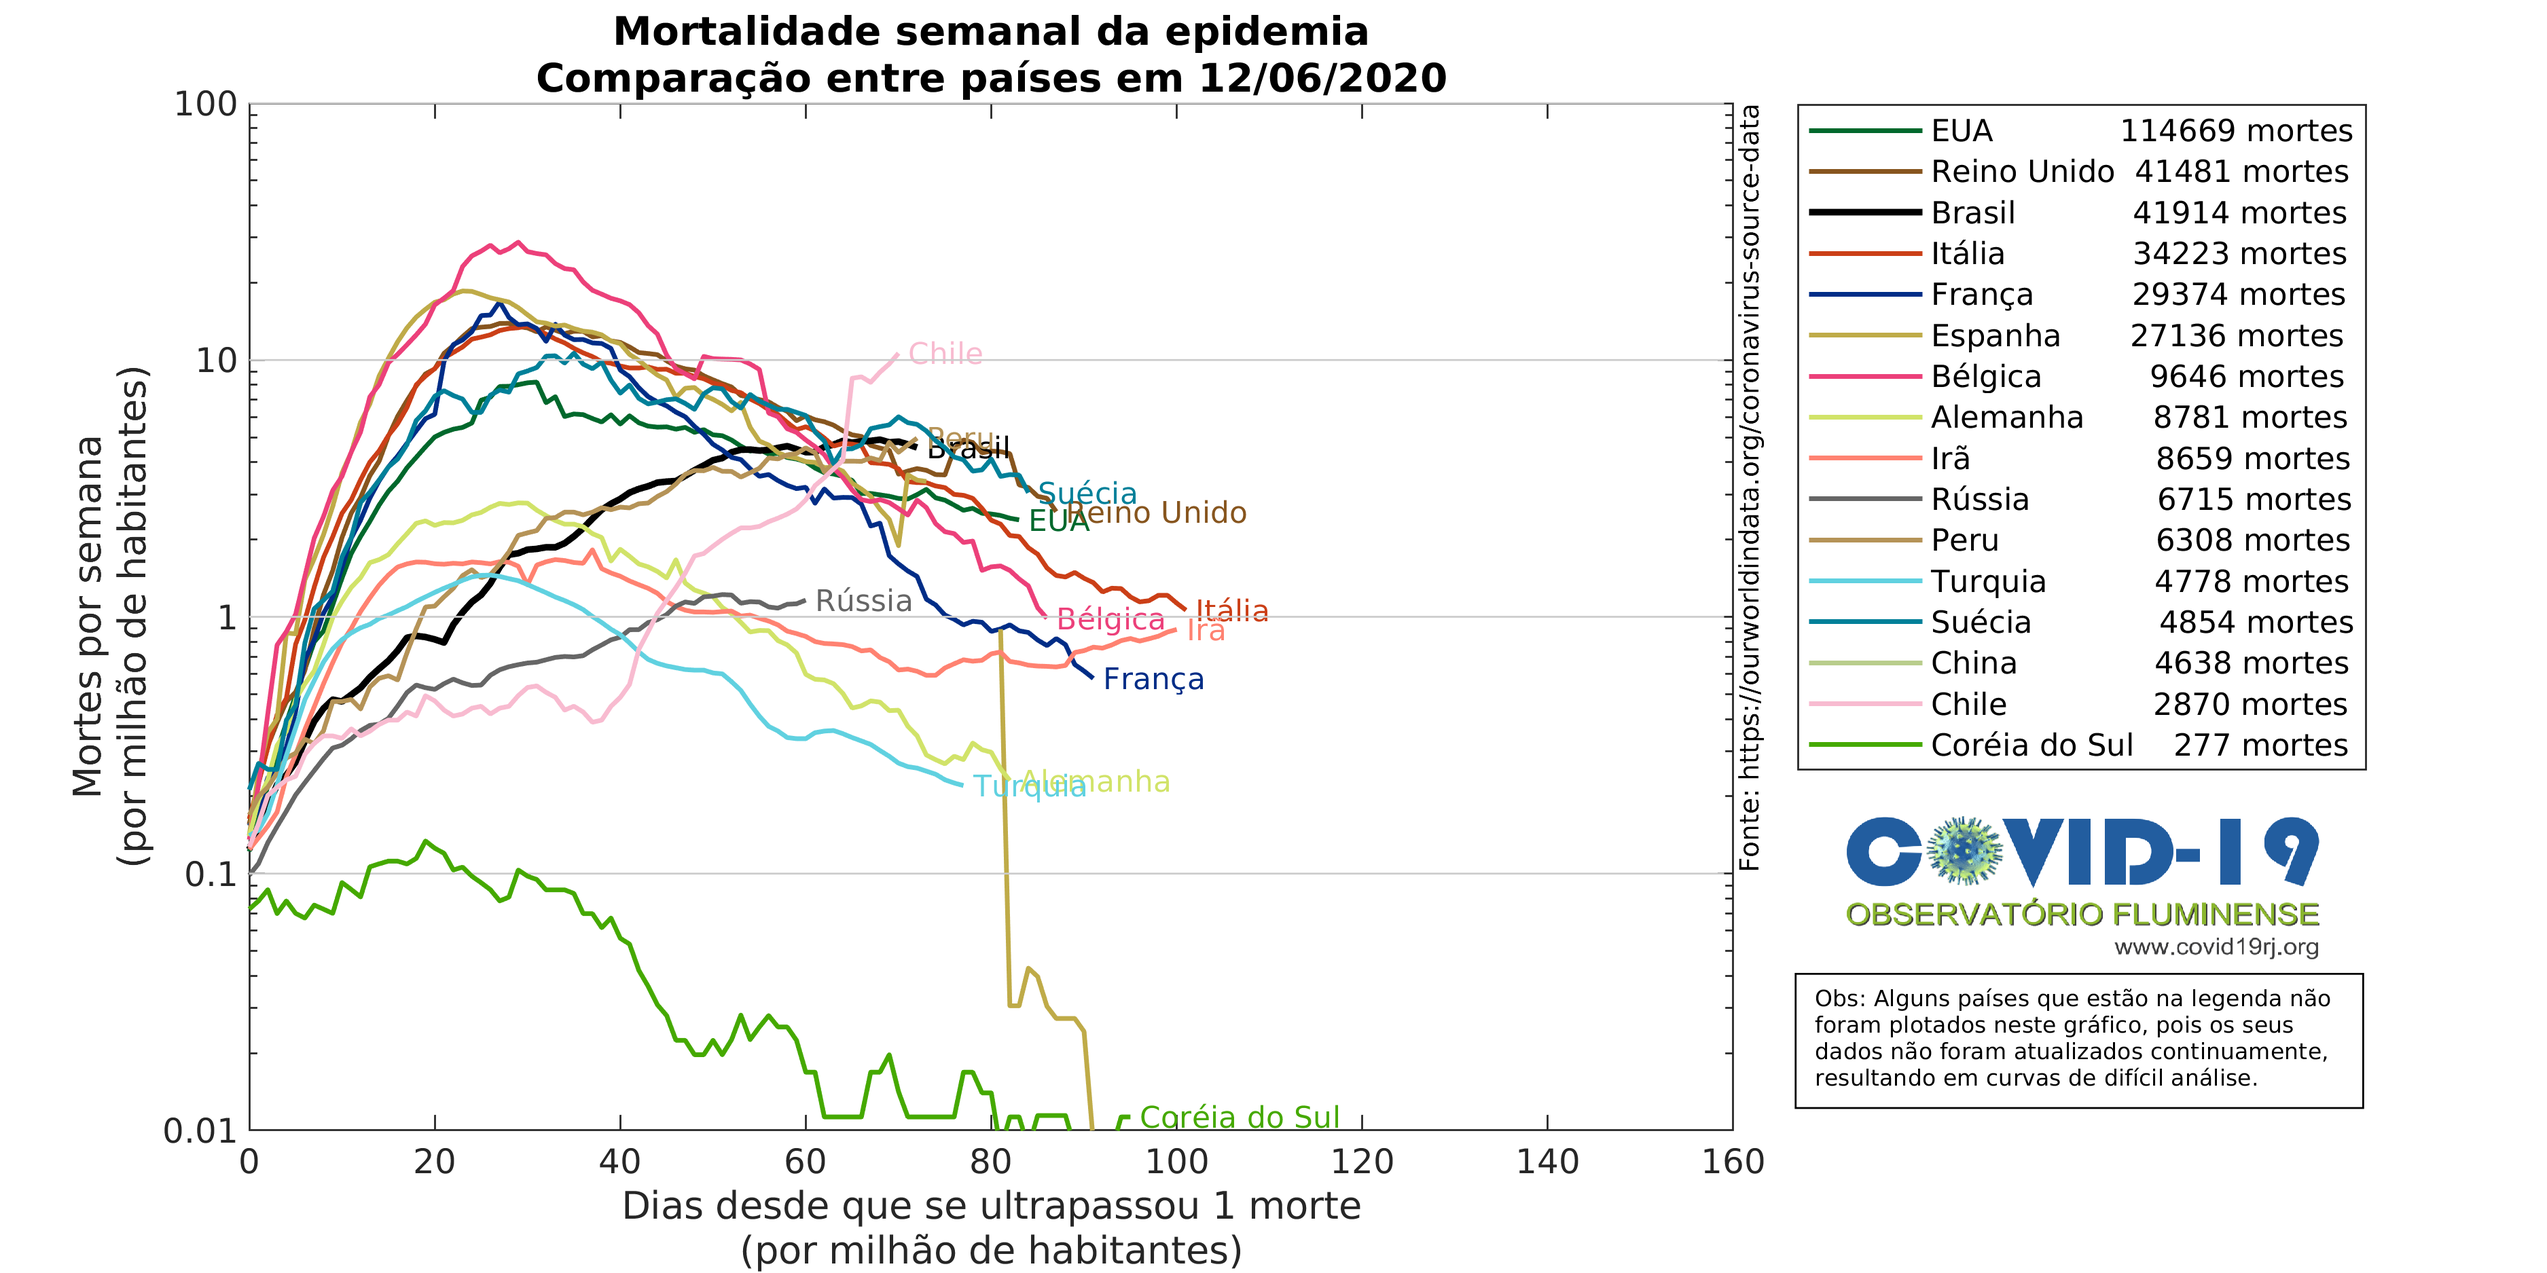
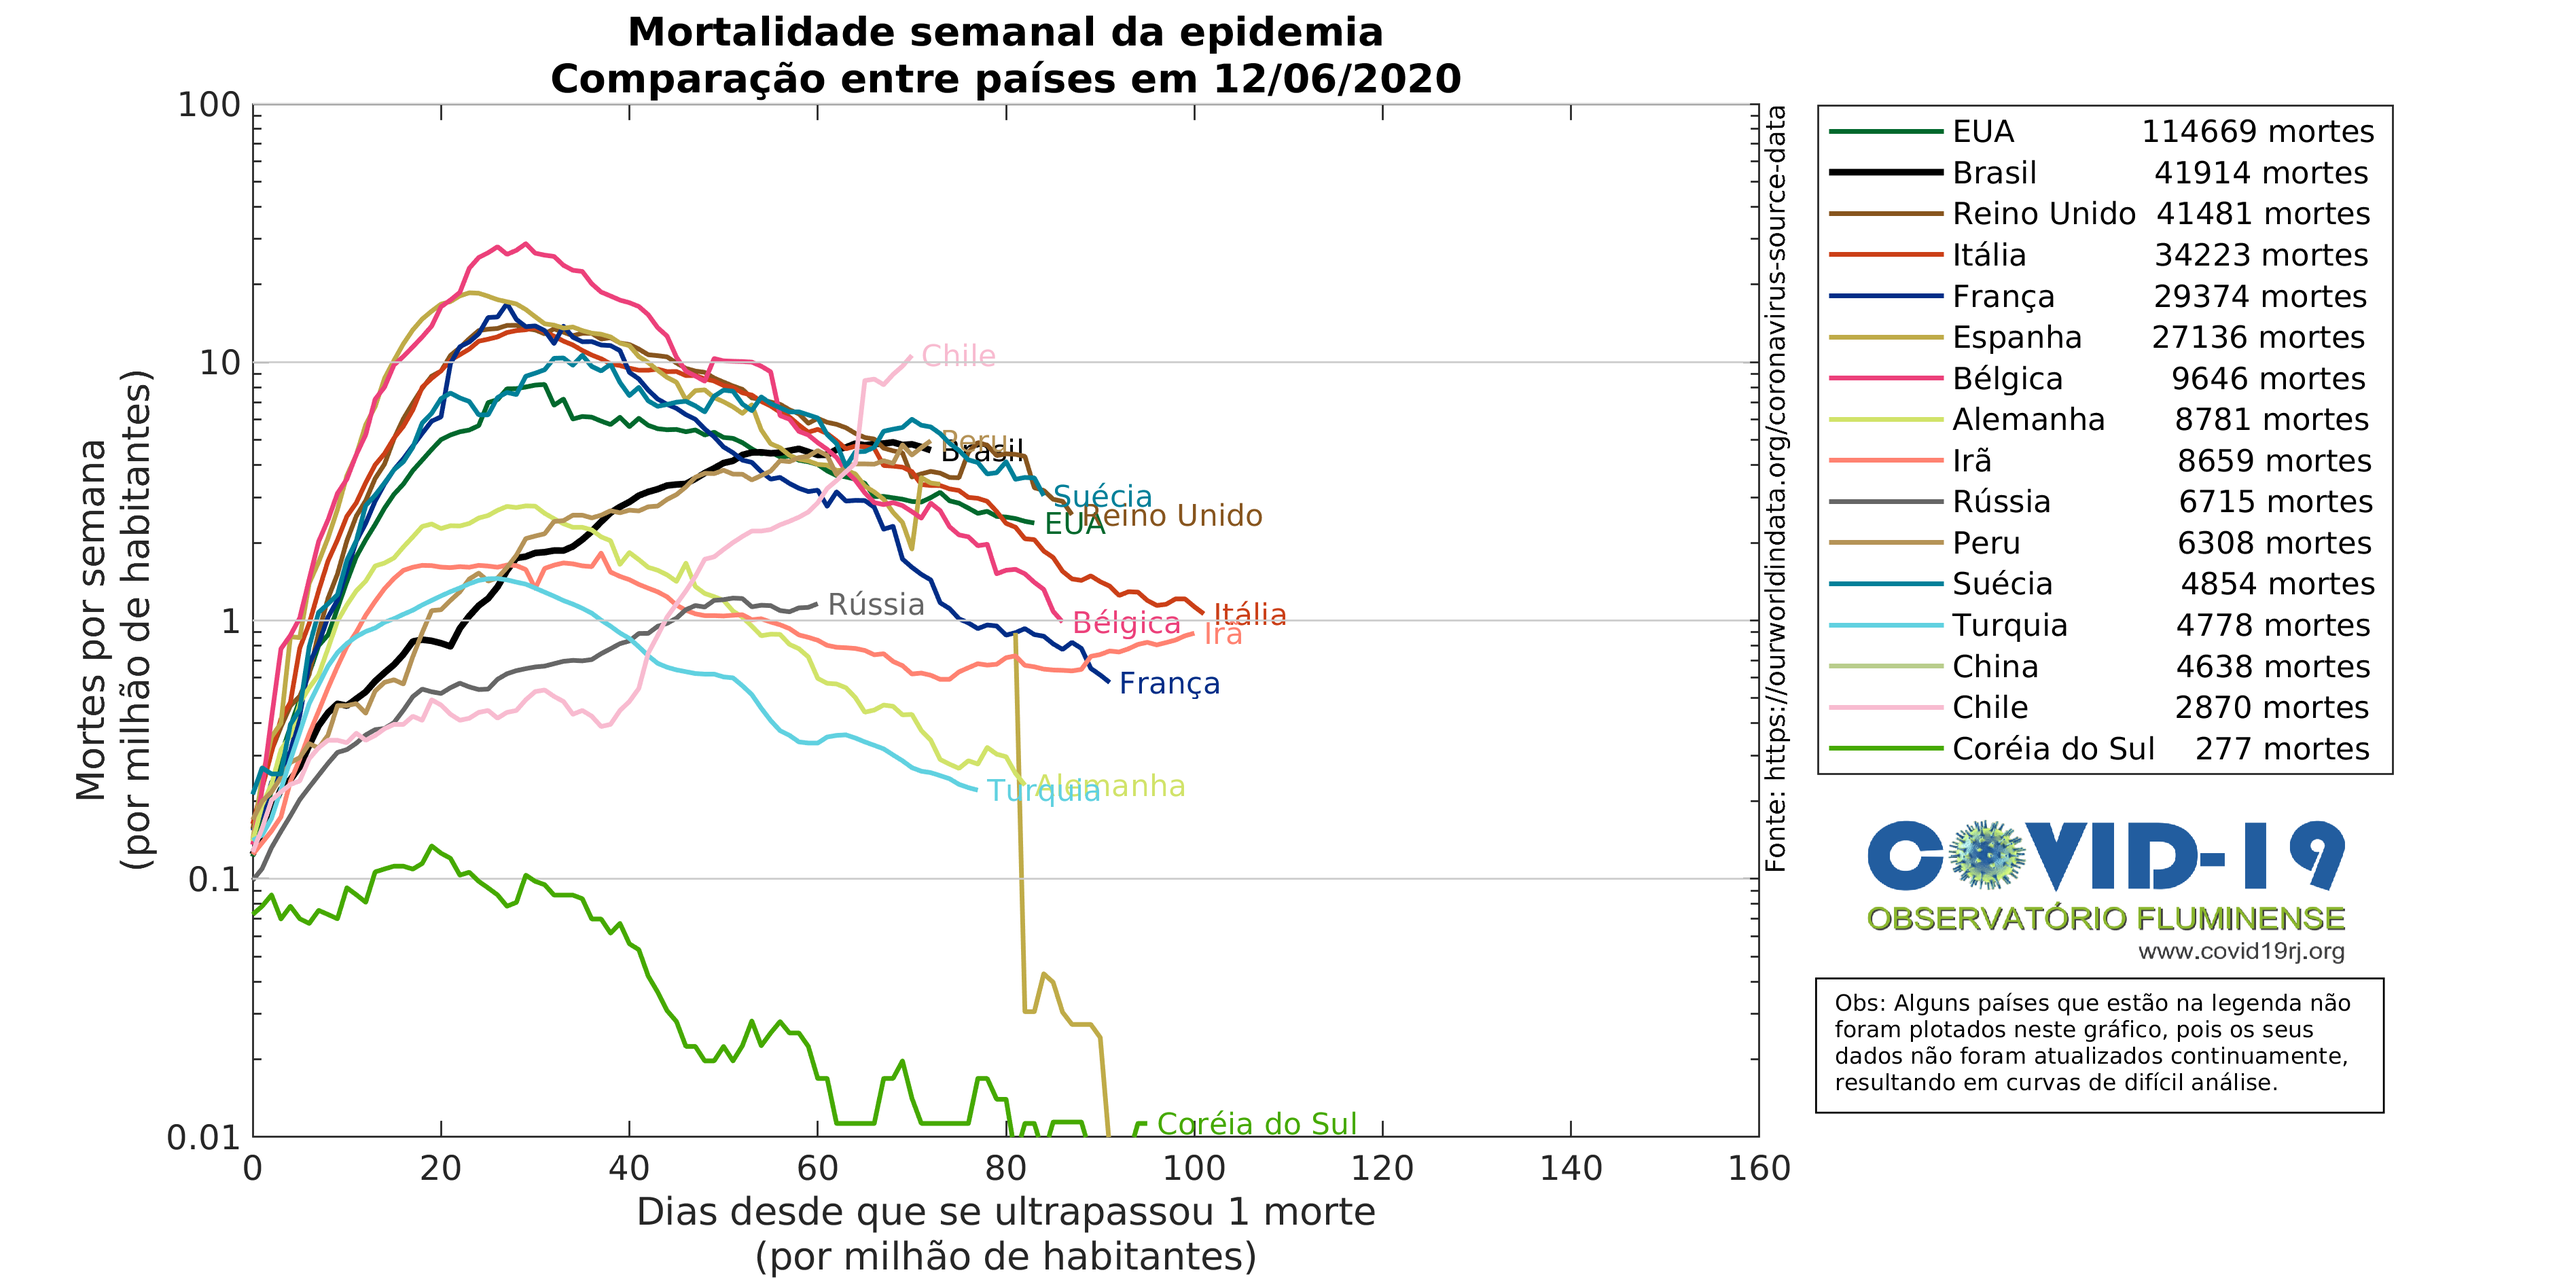
Update

diff --git a/Monitoramento/covid19rj_M_ST_WD_VA.m b/Monitoramento/covid19rj_M_ST_WD_VA.m
@@ -66,21 +66,21 @@ linew = 1.25;
 
 if (plot_type == 1)
 %ordem por países que tem mais morte
-if (init == 3) country = 'Brazil'; color = [0,0,0]/255; linew = 1.75; end
+if (init == 2) country = 'Brazil'; color = [0,0,0]/255; linew = 1.75; end
 if (init == 16) country = 'South Korea'; color = [69,169,0]/255; end
-if (init == 12) country = 'Turkey'; color = [96,209,224]/255; end  
+if (init == 13) country = 'Turkey'; color = [96,209,224]/255; end  
 if (init == 11) country = 'Peru'; color = [181,147,87]/255; end
 if (init == 9) country = 'Iran'; color = [255,130,113]/255; end
 if (init == 8) country = 'Germany'; color = [209,227,105]/255; end
 if (init == 15) country = 'Chile'; color = [248,187,208]/255; end
 if (init == 1) country = 'United States'; color = [0,104,44]/255; end
 if (init == 5) country = 'France'; color = [0,45,135]/255; end
-if (init == 2) country = 'United Kingdom'; color = [135,85,30]/255; end
+if (init == 3) country = 'United Kingdom'; color = [135,85,30]/255; end
 if (init == 4) country = 'Italy'; color = [203,63,23]/255; end
 if (init == 6) country = 'Spain'; color = [191,171,72]/255; end
 if (init == 7) country = 'Belgium'; color = [236,64,122]/255; end
 if (init == 10) country = 'Russia'; color = [0.4,0.4,0.4]; end
-if (init == 13) country = 'Sweden'; color = [0,0.5,0.6]; end
+if (init == 12) country = 'Sweden'; color = [0,0.5,0.6]; end
 if (init == 14) country = 'China'; color = [185,205,140]/255; end
 
 if strcmp(country, 'Brazil')
@@ -120,9 +120,9 @@ if (init == 10) country = 'Turkey'; color = [96,209,224]/255; end
 if (init == 7) country = 'Peru'; color = [181,147,87]/255; end
 if (init == 9) country = 'Iran'; color = [255,130,113]/255; end
 if (init == 8) country = 'Germany'; color = [209,227,105]/255; end
-if (init == 12) country = 'Chile'; color = [248,187,208]/255; end
+if (init == 11) country = 'Chile'; color = [248,187,208]/255; end
 if (init == 1) country = 'United States'; color = [0,104,44]/255; end
-if (init == 11) country = 'France'; color = [0,45,135]/255; end
+if (init == 12) country = 'France'; color = [0,45,135]/255; end
 if (init == 4) country = 'United Kingdom'; color = [135,85,30]/255; end
 if (init == 6) country = 'Italy'; color = [203,63,23]/255; end
 if (init == 5) country = 'Spain'; color = [191,171,72]/255; end
@@ -275,7 +275,7 @@ hold on;
 
  n = max(max(size(tot_deaths_X)));
  days = 0:1:n-1;
- fig=semilogy(days,tot_deaths_X,'DisplayName',[country,'  ',num2str(max(tot_deaths)),' mortes'],"color",color,'LineWidth', linew);
+ fig=semilogy(days,tot_deaths_X,'DisplayName',[country,'  ',num2str(tot_deaths(max(size(tot_deaths)),1)),' mortes'],"color",color,'LineWidth', linew);
  hold on;
  text (n-1, tot_deaths_X(n,1), [' ',country],'FontSize',fonte_location,"color",color,"Clipping",'on');
 
@@ -312,7 +312,7 @@ hold on;
 
  n = max(max(size(tot_deathsw0)));
  if strcmp(country, 'China            ') new_deaths7w0 = zeros(n,1); end
- fig=loglog(tot_deathsw0,new_deaths7w0,'DisplayName',[country,'  ',num2str(max(tot_deaths)),' mortes'],"color",color,'LineWidth', linew);
+ fig=loglog(tot_deathsw0,new_deaths7w0,'DisplayName',[country,'  ',num2str(tot_deaths(max(size(tot_deaths)),1)),' mortes'],"color",color,'LineWidth', linew);
  hold on;
  text (tot_deathsw0(n,1), new_deaths7w0(n,1), [' ',country],'FontSize',fonte_location,"color",color,"Clipping",'on');
 
@@ -351,7 +351,7 @@ hold on;
  n = max(max(size(new_deaths7_X)));
  if strcmp(country, 'China            ') new_deaths7_X = zeros(n,1); end
  days = 0:1:n-1;
- fig=semilogy(days,new_deaths7_X/7,'DisplayName',[country,'  ',num2str(max(tot_deaths)),' mortes'],"color",color,'LineWidth', linew);
+ fig=semilogy(days,new_deaths7_X/7,'DisplayName',[country,'  ',num2str(tot_deaths(max(size(tot_deaths)),1)),' mortes'],"color",color,'LineWidth', linew);
  hold on;
  text (n-1, new_deaths7_X(n,1)/7, [' ',country],'FontSize',fonte_location,"color",color,"Clipping",'on');
 
@@ -390,7 +390,7 @@ hold on;
 
  n = max(max(size(tot_cases_X)));
  days = 0:1:n-1;
- fig=semilogy(days,tot_cases_X,'DisplayName',[country,'  ',num2str(max(tot_cases)),' casos'],"color",color,'LineWidth', linew);
+ fig=semilogy(days,tot_cases_X,'DisplayName',[country,'  ',num2str(tot_cases(max(size(tot_cases)),1)),' casos'],"color",color,'LineWidth', linew);
  hold on;
  text (n-1, tot_cases_X(n,1), [' ',country],'FontSize',fonte_location,"color",color,"Clipping",'on');
 
@@ -423,7 +423,7 @@ hold on;
 
  n = max(max(size(tot_casesw0)));
 %if strcmp(country, 'China              ') new_cases7w0 = zeros(n,1); end
-fig=loglog(tot_casesw0,new_cases7w0,'DisplayName',[country,'  ',num2str(max(tot_cases)),' casos'],"color",color,'LineWidth', linew);
+fig=loglog(tot_casesw0,new_cases7w0,'DisplayName',[country,'  ',num2str(tot_cases(max(size(tot_cases)),1)),' casos'],"color",color,'LineWidth', linew);
  hold on;
  text (tot_casesw0(n,1), new_cases7w0(n,1), [' ',country],'FontSize',fonte_location,"color",color,"Clipping",'on');
 
@@ -462,7 +462,7 @@ hold on;
  n = max(max(size(new_cases_X)));
  %if strcmp(country, 'China              ') new_cases7_X = zeros(n,1); end
  days = 0:1:n-1;
- fig=semilogy(days,new_cases7_X/7,'DisplayName',[country,'  ',num2str(max(tot_cases)),' casos'],"color",color,'LineWidth', linew);
+ fig=semilogy(days,new_cases7_X/7,'DisplayName',[country,'  ',num2str(tot_cases(max(size(tot_cases)),1)),' casos'],"color",color,'LineWidth', linew);
  hold on;
  text (n-1, new_cases7_X(n,1)/7, [' ',country],'FontSize',fonte_location,"color",color,"Clipping",'on');
 

diff --git a/Monitoramento/covid19rj_M_ST_WD_PM.m b/Monitoramento/covid19rj_M_ST_WD_PM.m
@@ -70,21 +70,21 @@ linew = 1.25;
 
 if (plot_type == 1)
 %ordem por países que tem mais morte
-if (init == 3) country = 'Brazil'; color = [0,0,0]/255; linew = 1.75; end
+if (init == 2) country = 'Brazil'; color = [0,0,0]/255; linew = 1.75; end
 if (init == 16) country = 'South Korea'; color = [69,169,0]/255; end
-if (init == 12) country = 'Turkey'; color = [96,209,224]/255; end  
+if (init == 13) country = 'Turkey'; color = [96,209,224]/255; end  
 if (init == 11) country = 'Peru'; color = [181,147,87]/255; end
 if (init == 9) country = 'Iran'; color = [255,130,113]/255; end
 if (init == 8) country = 'Germany'; color = [209,227,105]/255; end
 if (init == 15) country = 'Chile'; color = [248,187,208]/255; end
 if (init == 1) country = 'United States'; color = [0,104,44]/255; end
 if (init == 5) country = 'France'; color = [0,45,135]/255; end
-if (init == 2) country = 'United Kingdom'; color = [135,85,30]/255; end
+if (init == 3) country = 'United Kingdom'; color = [135,85,30]/255; end
 if (init == 4) country = 'Italy'; color = [203,63,23]/255; end
 if (init == 6) country = 'Spain'; color = [191,171,72]/255; end
 if (init == 7) country = 'Belgium'; color = [236,64,122]/255; end
 if (init == 10) country = 'Russia'; color = [0.4,0.4,0.4]; end
-if (init == 13) country = 'Sweden'; color = [0,0.5,0.6]; end
+if (init == 12) country = 'Sweden'; color = [0,0.5,0.6]; end
 if (init == 14) country = 'China'; color = [185,205,140]/255; end
 
 if strcmp(country, 'Brazil')
@@ -124,9 +124,9 @@ if (init == 10) country = 'Turkey'; color = [96,209,224]/255; end
 if (init == 7) country = 'Peru'; color = [181,147,87]/255; end
 if (init == 9) country = 'Iran'; color = [255,130,113]/255; end
 if (init == 8) country = 'Germany'; color = [209,227,105]/255; end
-if (init == 12) country = 'Chile'; color = [248,187,208]/255; end
+if (init == 11) country = 'Chile'; color = [248,187,208]/255; end
 if (init == 1) country = 'United States'; color = [0,104,44]/255; end
-if (init == 11) country = 'France'; color = [0,45,135]/255; end
+if (init == 12) country = 'France'; color = [0,45,135]/255; end
 if (init == 4) country = 'United Kingdom'; color = [135,85,30]/255; end
 if (init == 6) country = 'Italy'; color = [203,63,23]/255; end
 if (init == 5) country = 'Spain'; color = [191,171,72]/255; end
